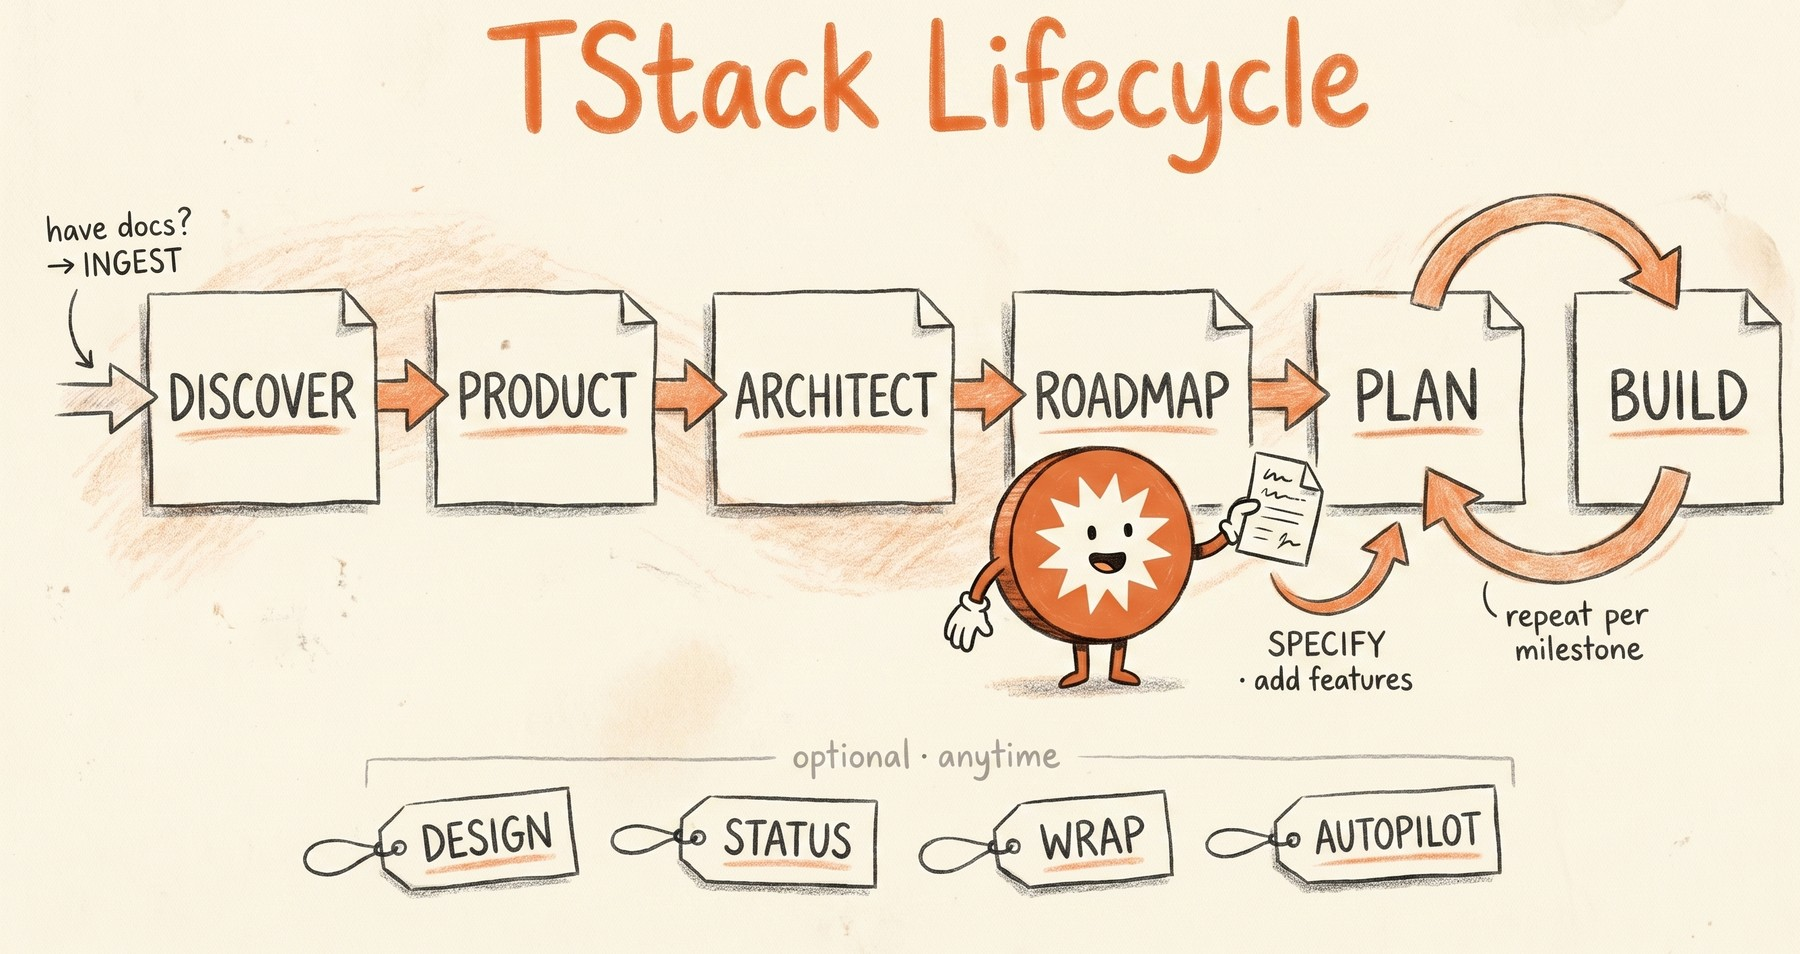
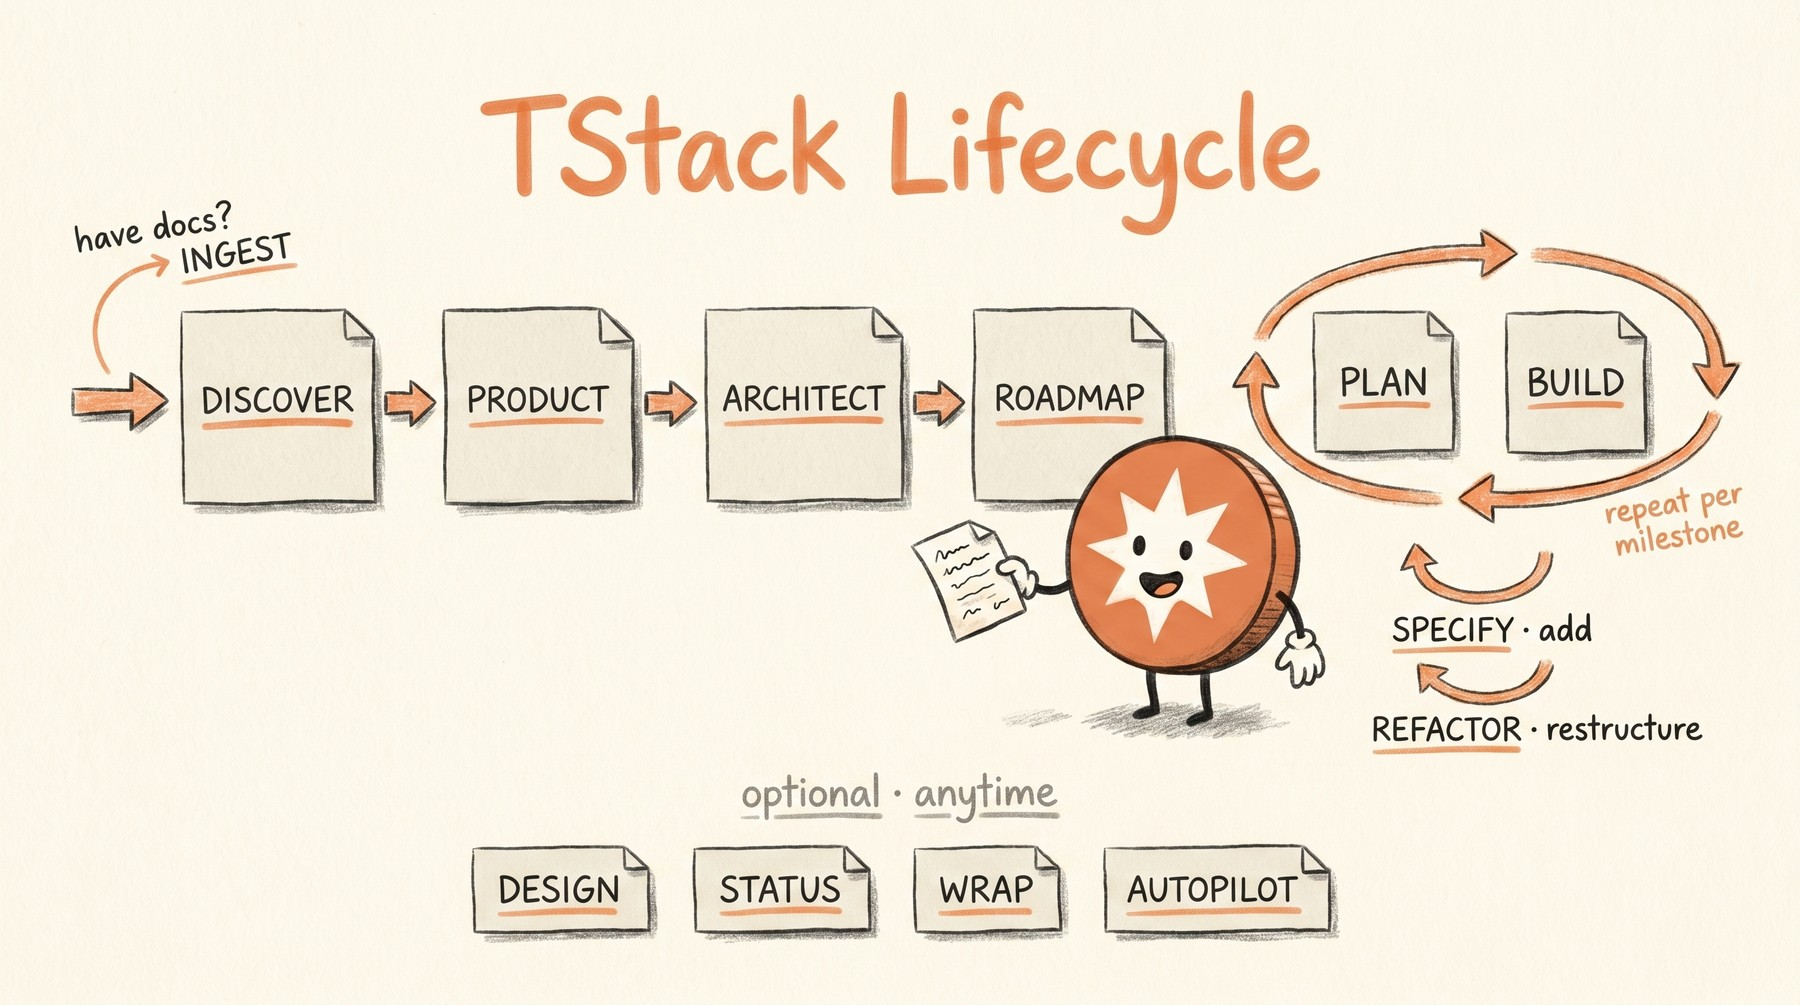
Ship v0.6.0 — autopilot + refactor skills, lifecycle infographic regen

Changed region(s): [[0.0311, 0.1824, 0.9956, 0.76], [0.1556, 0.6688, 0.84, 0.9423], [0.2489, 0.0, 0.7778, 0.2432]]

diff --git a/CHANGELOG.md b/CHANGELOG.md
@@ -10,7 +10,11 @@ Move the Unreleased entries under a new version heading when you tag a release
 
 ## [Unreleased]
 
+## [0.6.0] — 2026-06-23
+
 ### Added
+- **`tstack-autopilot` — autonomous milestone runner (opt-in, manual-only).** Generalizes the personal `autopilot` command into a TStack skill: given one milestone ID it plans the milestone, **red-teams the plan with three parallel adversarial agents** (this *replaces* `tstack-plan-milestone`'s human approval gate), builds on a feature branch in an isolated worktree, **verifies against the milestone's "Done when" criteria with quoted command output** (the only authorizing gate — self-review never authorizes), opens a PR, waits for whatever automated reviewer the project uses, triages the feedback, and writes a handoff report. It **never merges** — it hands an open, reviewed PR to a human. Fills TStack's missing unattended mode (BACKLOG #5) without reversing the fresh-session-per-milestone default: it's PR-and-stop, one milestone per run, and never chains. **Manual-only** (`disable-model-invocation: true`) because it mutates git — it must never auto-trigger. **Fail-closed:** refuses unless the tree is clean and on an up-to-date default branch, the M0/i0 infrastructure baseline + CI exist, every "Done when" criterion is command-verifiable, dependencies are all Completed, and no `AGENTS.md`/`CONTRIBUTING` policy forbids autonomous pushes (consumer policy wins). All work happens on a feature branch and the run stops at an open PR — merging stays the human's, with no requirement to enable GitHub branch protection. Tests are append-only (weakening one aborts the run); secret-scan before every push. Markdown-only, no executable code added. Off-chain.
+- **`tstack-refactor` — structural/technical refactor iteration skill.** Sibling to `tstack-specify-feature` for changing *how* an existing project is built (migrate a library, split a module, swap a provider, pay down debt) with little or no product change. It demands a solid justification (challenges vibes-based rewrites), judges the change through the **product-goal lens** (updates PRODUCT.md only if the goal genuinely shifted; routes a full pivot back to `tstack-roadmap`), actively **researches the blast radius** in the codebase via `Explore` subagents rather than just asking, records the change as a **superseding ADR** in DECISIONS.md (flip the old one to `Superseded by ADR-N`), and appends **behavior-preserving** ("no regression") milestones — append-only, same testability bar `tstack-roadmap` enforces. **Recommend-and-stop:** it ends by recommending `tstack-plan-milestone` and never starts building. Completes the add/restructure/remove iteration family with the backlogged `tstack-techdebt` (detector) and `tstack-retire` (remove). Ships with `references/example-output.md`.
 - **README lifecycle infographic replaces the Mermaid diagram.** The "Lifecycle" section now shows a hand-drawn infographic (`images/lifecycle.jpg`) matching the banner's warm crayon-on-cream style, and "The agentic loop" section gains a matching loop illustration (`images/agentic-loop.jpg`) — both clearer at a glance than the Mermaid flowchart they replace. The images are **AI-generated** (Higgsfield `nano_banana_pro`, mascot locked to the banner via `images/mascot-ref.png` as a reference), so a chain change is a re-generate rather than a redraw. Added `images/BRANDING.md` — the TStack brand & design system (palette, typography, logo, mascot, medium, do/don't, a copy-paste Style Block, and the full regeneration workflow with exact model/settings/prompts, plus a *Rendered graph* manifest recording what the images depict).
 - **`/refresh-lifecycle` — repo-local skill to regenerate the README diagrams.** Lives in `.claude/skills/` (outside `skills/`, so it's never shipped — same as `/upkeep` and `/ship`). Runs a no-cost **drift check** first (diffs the live `skills/tstack-*` set and roles against the *Rendered graph* manifest in `BRANDING.md §11`) and only regenerates `lifecycle.jpg`/`agentic-loop.jpg` when a node or role actually changed — pure renames with an unchanged one-word label just update text records. Orchestration-only: it defers to `BRANDING.md §11` for the prompts/model/settings (single source of truth, no forked wording), confirms Higgsfield credit cost before generating, presents variants for the user to pick, post-processes, and updates the manifest + README alt-text + this CHANGELOG. Fail-closed if not in the plugin repo or if the Higgsfield MCP isn't connected. No consumer-facing or plugin behaviour changes.
 - **`tstack-refactor` — structural/technical refactor iteration skill.** Sibling to `tstack-specify-feature` for changing *how* an existing project is built (migrate a library, split a module, swap a provider, pay down debt) with little or no product change. It demands a solid justification (challenges vibes-based rewrites), judges the change through the **product-goal lens** (updates PRODUCT.md only if the goal genuinely shifted; routes a full pivot back to `tstack-roadmap`), actively **researches the blast radius** in the codebase via `Explore` subagents rather than just asking, records the change as a **superseding ADR** in DECISIONS.md (flip the old one to `Superseded by ADR-N`), and appends **behavior-preserving** ("no regression") milestones — append-only, same testability bar `tstack-roadmap` enforces. **Recommend-and-stop:** it ends by recommending `tstack-plan-milestone` and never starts building. Completes the add/restructure/remove iteration family with the backlogged `tstack-techdebt` (detector) and `tstack-retire` (remove). Ships with `references/example-output.md`.
@@ -18,10 +22,8 @@ Move the Unreleased entries under a new version heading when you tag a release
 ### Changed
 - **Source-of-truth headers added to the `discover`, `roadmap`, and `build` reference guides.** The `architect` and `product` guides already opened with a `> **Source of truth:** SKILL.md is authoritative…` header, and CLAUDE.md states *every* `full-guide.md` carries one — but the three preserved pre-plugin guides (discover/roadmap/build) had none, making that claim false and leaving the guides most likely to have drifted from their SKILL.md without a "follow SKILL.md if they disagree" pointer. Each now carries a guide-specific header naming its SKILL.md as authoritative and flagging the guide as preserved prose that may lag. Header-only addition — the preserved prose itself is untouched. (Closes the last open thread from the 2026-05-30 advisory review's §3.1 single-source-of-truth recommendation.)
 - **TStack no longer suggests or requires branch protection anywhere.** Removed branch protection from `tstack-roadmap`'s mandatory `M0`/`i0` infrastructure baseline — the M0 scope bullet, the "owner configures externally" Done-when group, and the description (and the matching lines in `references/example-output.md` and `references/full-guide.md`). `tstack-build`'s team-PR note no longer references "M0 branch-protection rules"; it just follows whatever review requirements the project records on its own. Enabling branch protection / required reviews is entirely the user's repo-settings call — the framework only honors it if the user records it themselves (planning, PRODUCT/DECISIONS docs, AGENTS.md, CONTRIBUTING), and never proposes it as a default. M0 remains mandatory for CI, secrets, deployment skeleton, observability, lint, and test runner.
-- **Renamed two skills for explicitness: `tstack-plan` → `tstack-plan-milestone`, `tstack-specify` → `tstack-specify-feature`.** The two vaguest names now name their object ("plan *what*? specify *what*?"). Invocation changes accordingly (`/tstack-plan-milestone`, `/tstack-specify-feature`); all live cross-references were updated (handoff prose, README diagram/tables/tree, CLAUDE.md contracts and conventions, the `/upkeep` skill). Historical `reviews/` files and prior CHANGELOG version sections were left untouched (they're a dated record). The plan artifact path stays `docs/plans/{id}.md` — named for "plans", not the skill. **Note:** the `images/lifecycle.jpg` infographic still shows the old labels — run `/refresh-lifecycle` to regenerate it (drift check will flag the renamed nodes).
-
-### Added
-- **`tstack-autopilot` — autonomous milestone runner (opt-in, manual-only).** Generalizes the personal `autopilot` command into a TStack skill: given one milestone ID it plans the milestone, **red-teams the plan with three parallel adversarial agents** (this *replaces* `tstack-plan-milestone`'s human approval gate), builds on a feature branch in an isolated worktree, **verifies against the milestone's "Done when" criteria with quoted command output** (the only authorizing gate — self-review never authorizes), opens a PR, waits for whatever automated reviewer the project uses, triages the feedback, and writes a handoff report. It **never merges** — it hands an open, reviewed PR to a human. Fills TStack's missing unattended mode (BACKLOG #5) without reversing the fresh-session-per-milestone default: it's PR-and-stop, one milestone per run, and never chains. **Manual-only** (`disable-model-invocation: true`) because it mutates git — it must never auto-trigger. **Fail-closed:** refuses unless the tree is clean and on an up-to-date default branch, the M0/i0 infrastructure baseline + CI exist, every "Done when" criterion is command-verifiable, dependencies are all Completed, and no `AGENTS.md`/`CONTRIBUTING` policy forbids autonomous pushes (consumer policy wins). All work happens on a feature branch and the run stops at an open PR — merging stays the human's, with no requirement to enable GitHub branch protection. Tests are append-only (weakening one aborts the run); secret-scan before every push. Markdown-only, no executable code added. Off-chain.
+- **Renamed two skills for explicitness: `tstack-plan` → `tstack-plan-milestone`, `tstack-specify` → `tstack-specify-feature`.** The two vaguest names now name their object ("plan *what*? specify *what*?"). Invocation changes accordingly (`/tstack-plan-milestone`, `/tstack-specify-feature`); all live cross-references were updated (handoff prose, README diagram/tables/tree, CLAUDE.md contracts and conventions, the `/upkeep` skill). Historical `reviews/` files and prior CHANGELOG version sections were left untouched (they're a dated record). The plan artifact path stays `docs/plans/{id}.md` — named for "plans", not the skill.
+- **Regenerated `images/lifecycle.jpg` for the current 13-skill chain.** Via `/refresh-lifecycle`: the infographic now shows two iteration return arrows into PLAN — `SPECIFY · add` and `REFACTOR · restructure` (previously just one) — picking up the new `tstack-refactor` skill; the renamed `tstack-plan-milestone`/`tstack-specify-feature` nodes keep their unchanged one-word labels (`PLAN`/`SPECIFY`). `agentic-loop.jpg` was left as-is (it depicts only the 6-step main chain + plan ⇄ build loop, which didn't change). Updated the *Rendered graph* manifest and composition prompt in `BRANDING.md §11` and the README lifecycle alt-text to match.
 
 ## [0.5.1] — 2026-06-21
 

diff --git a/README.md b/README.md
@@ -10,7 +10,7 @@ Under the hood it's an **agentic loop** built to stay trustworthy over a long pr
 
 ## The Lifecycle
 
-![The TStack lifecycle: a one-time setup chain (discover → product → architect → roadmap) flows into the per-milestone plan ⇄ build loop. tstack-ingest is the on-ramp for projects that already have docs; tstack-specify-feature adds features to an existing product. Four off-chain companions — design, status, wrap, autopilot — run at any point.](images/lifecycle.jpg)
+![The TStack lifecycle: a one-time setup chain (discover → product → architect → roadmap) flows into the per-milestone plan ⇄ build loop. tstack-ingest is the on-ramp for projects that already have docs; two iteration skills re-enter at plan — tstack-specify-feature adds features, tstack-refactor restructures how the system is built. Four off-chain companions — design, status, wrap, autopilot — run at any point.](images/lifecycle.jpg)
 
 Four skills form a one-time setup chain (`discover` → `product` → `architect` → `roadmap`). Then `tstack-plan-milestone` and `tstack-build` form the per-milestone loop you run repeatedly. `tstack-specify-feature` is the iteration skill for adding features after launch — it hands into the same `plan` → `build` loop. `tstack-refactor` is its structural sibling: for changing *how* the system is built (migrate a library, split a module, pay down debt) without changing what the product does — it checks the change against the product goal, writes a superseding ADR, and appends behavior-preserving milestones, then also recommends `plan-milestone` (it never starts the work itself). **`tstack-ingest` is the adoption on-ramp**: if you already have docs (a PRD, notes, a design or architecture doc), it maps them onto the TStack doc set, distills a draft into `docs/_adopted/`, and routes you into the chain at `tstack-product` — so you resume mid-stream instead of restarting. (`tstack-discover` forwards to it the moment it sees you already have docs.) `tstack-design`, `tstack-status`, and `tstack-wrap` sit **outside** the chain: invoke them whenever you need them — none is a required step and none blocks the flow. `tstack-wrap` is the natural way to close a session — it sweeps the work you just did for anything that should be in the docs but isn't, and writes the gaps. `tstack-autopilot` is also off-chain but a different animal: a **manual-only** runner (it never auto-triggers) that takes a single milestone unattended — plan → adversarially red-team the plan → build → verify → open PR — and **stops at an open PR for a human to review and merge.** It never merges and never chains to the next milestone, so it layers on top of the fresh-session default rather than replacing it.
 

diff --git a/images/BRANDING.md b/images/BRANDING.md
@@ -182,8 +182,9 @@ COMPOSITION — a wide horizontal pipeline infographic. Title top center in oran
 "TStack Lifecycle". A left-to-right row of four paper note-cards: "DISCOVER", "PRODUCT",
 "ARCHITECT", "ROADMAP", joined by short orange arrows. To the right, two cards "PLAN" and "BUILD"
 inside a small rounded loop of two orange arrows, note beneath: "repeat per milestone". The
-reference mascot stands beside the row handing a document along the line. A small curved orange
-return arrow loops up into PLAN, labeled "SPECIFY · add features". Bottom: faint label
+reference mascot stands beside the row handing a document along the line. Two small curved orange
+return arrows loop up into PLAN, stacked and labeled "SPECIFY · add" and "REFACTOR · restructure".
+Bottom: faint label
 "optional · anytime" above four paper tags: "DESIGN", "STATUS", "WRAP", "AUTOPILOT". Far left, a
 small entry arrow noted "have docs? → INGEST". Generous cream negative space.
 ```
@@ -211,11 +212,14 @@ this block in the same change.
 
 ```
 main chain (row):   discover → product → architect → roadmap → plan ⇄ build
-iteration arrow:    specify → plan        (labeled "SPECIFY · add features")
+iteration arrows:   specify → plan        (labeled "SPECIFY · add")
+                    refactor → plan       (labeled "REFACTOR · restructure")
 on-ramp (entry):    ingest                (labeled "have docs? → INGEST", feeds product)
 off-chain shelf:    design · status · wrap · autopilot   (labeled "optional · anytime")
 loop note:          "repeat per milestone" on the plan ⇄ build cycle
 ```
 
-Total: 12 skills, matching `skills/tstack-*`. If a skill is added/removed/renamed, or its
+Total: 13 skills, matching `skills/tstack-*`. The `plan` node is `tstack-plan-milestone`
+and the `specify` node is `tstack-specify-feature` (renamed skills, unchanged one-word
+labels `PLAN`/`SPECIFY`). If a skill is added/removed/renamed, or its
 chain-vs-on-ramp-vs-off-chain role changes, the graph is **stale** and must be regenerated.
